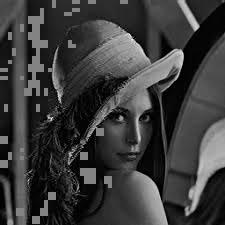
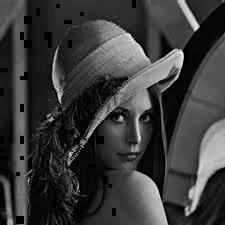
removed base shifting to 127

diff --git a/svd_steg/steganographer.py b/svd_steg/steganographer.py
@@ -287,7 +287,7 @@ class Steganographer:
             for i in range(row_lim):
 
                 # isolate the block
-                block = self.embedded_image[block_size*i:block_size*(i+1), j*block_size:block_size*(j+1)] - 127
+                block = self.embedded_image[block_size*i:block_size*(i+1), j*block_size:block_size*(j+1)]
 
 
                 # compute the SVD
@@ -337,7 +337,7 @@ class Steganographer:
 
 
                 print("original block: ")
-                print(block + 127)
+                print(block)
                 print()
 
 
@@ -441,10 +441,16 @@ class Steganographer:
                         block[x, y] = math.fabs(block[x, y])
                         """
 
+                        """
                         if block[x, y] > 128:
                             block[x, y] = 128
                         if block[x, y] < -127:
                             block[x, y] = -127
+                        """
+                        if block[x, y] > 255:
+                            block[x, y] = 255
+                        if block[x, y] < 0:
+                            block[x, y] = 0
 
                 print()
                 print("U_mk before reconstruction")
@@ -453,7 +459,6 @@ class Steganographer:
 
                 #block = numpy.round(U_mk.dot(S.dot(VT)))
                 block = block.astype(numpy.uint8)
-                block += 127
                 print("reconstructed block")
                 print(block)
                 print()
